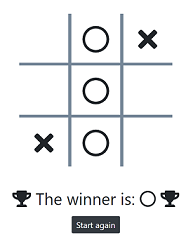
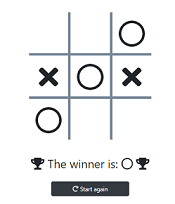
Paddle-game: RWD buttons

Changed region(s): [[0.0857, 0.0588, 0.9143, 0.7059], [0.0571, 0.7647, 0.9429, 1.0], [0.6857, 0.3235, 0.8286, 0.4412]]

diff --git a/src/Components/PaddleGame/PaddleGame.js b/src/Components/PaddleGame/PaddleGame.js
@@ -1,7 +1,7 @@
 import React from 'react';
 import './PaddleGame.css';
 import { FontAwesomeIcon } from '@fortawesome/react-fontawesome';
-import { faTrophy } from '@fortawesome/free-solid-svg-icons';
+  import { faTrophy, faPlay, faExpandArrowsAlt, faRedoAlt } from '@fortawesome/free-solid-svg-icons';
 import lang from '../../assets/lang/lang.json';
 
 class PaddleGame extends React.Component {
@@ -175,9 +175,27 @@ class PaddleGame extends React.Component {
     let startStopGameBtn;
 
     if (!this.state.gameRefreshInterval) {
-      startStopGameBtn = <button className="btn btn-dark" onClick={this.startStopGame.bind(this)}>START GAME</button>
+      startStopGameBtn = <div className="start-stop">
+        <div className="start-stop--narrow">
+          <button className="btn btn-dark" onClick={this.startStopGame.bind(this)}> 
+          <FontAwesomeIcon icon={faPlay} /></button>
+        </div>
+        <div className="start-stop--wide">
+          <button className="btn btn-dark" onClick={this.startStopGame.bind(this)}> 
+          <FontAwesomeIcon icon={faPlay} /> {lang[localStorage.getItem('lang')].startGame} </button>
+          </div>
+        </div>
     } else {
-      startStopGameBtn = <button className="btn btn-dark" onClick={this.startStopGame.bind(this)}>STOP GAME</button>
+      startStopGameBtn = <div className="start-stop">
+        <div className="start-stop--narrow">
+          <button className="btn btn-dark" onClick={this.startStopGame.bind(this)}> 
+          <FontAwesomeIcon icon={faPlay} /></button>
+        </div>
+        <div className="start-stop--wide">
+          <button className="btn btn-dark" onClick={this.startStopGame.bind(this)}> 
+          <FontAwesomeIcon icon={faPlay} /> {lang[localStorage.getItem('lang')].stopGame} </button>
+          </div>
+        </div>
     }
 
     return (
@@ -188,15 +206,27 @@ class PaddleGame extends React.Component {
           className={this.state.isFullScreen ? 'paddle-board paddle-board--full-screen' : 'paddle-board'} 
           ref="canvas" 
           width="700" 
-          height="500">
+          height="500"          >
         </canvas>
+        <div classname="paddle-board--buttons">
+          <div className="paddle-board--buttons--wide">
+            <button className="btn btn-dark" onClick={this.toggleFullScreen.bind(this)}> 
+              <FontAwesomeIcon icon={faExpandArrowsAlt } /> 
+              {lang[localStorage.getItem('lang')].fullScrn} </button>
+            {startStopGameBtn}
+            <button className="btn btn-dark" onClick={this.resetBestScore.bind(this)}>  
+              <FontAwesomeIcon icon={faRedoAlt } /> 
+              {lang[localStorage.getItem('lang')].resetScore} </button>
+          </div>
 
-      <div className="paddle-board--buttons">
-        <button className="btn btn-dark" onClick={this.toggleFullScreen.bind(this)}>Full Screen</button>
-        {startStopGameBtn}
-        <button className="btn btn-dark" onClick={this.resetBestScore.bind(this)}>Reset best score</button>
-      </div>
-
+          <div className="paddle-board--buttons--narrow">
+            <button className="btn btn-dark" onClick={this.toggleFullScreen.bind(this)}> 
+              <FontAwesomeIcon icon={faExpandArrowsAlt } /> </button>
+            {startStopGameBtn}
+            <button className="btn btn-dark" onClick={this.resetBestScore.bind(this)}>  
+              <FontAwesomeIcon icon={faRedoAlt } /> </button>
+          </div>
+        </div>
       </div>
     );
   } 

diff --git a/src/Components/TicTacToe/TicTacToe.js b/src/Components/TicTacToe/TicTacToe.js
@@ -3,7 +3,7 @@ import './TicTacToe.css';
 import lang from '../../assets/lang/lang.json';
 import { FontAwesomeIcon } from '@fortawesome/react-fontawesome';
 import { faCircle } from '@fortawesome/free-regular-svg-icons';
-import { faTimes , faTrophy} from '@fortawesome/free-solid-svg-icons';
+import { faTimes , faTrophy, faRedoAlt} from '@fortawesome/free-solid-svg-icons';
 
 class TicTacToe extends React.Component {
 	constructor() {
@@ -147,8 +147,18 @@ class TicTacToe extends React.Component {
                 );
                 }) }
             </div>
-            <p> <FontAwesomeIcon icon={faTrophy} /> {this.state.winner} <FontAwesomeIcon icon={faTrophy} /></p>
-            <button onClick={this.resetGameBoard.bind(this)} className="btn btn-dark">{lang[localStorage.getItem('lang')].startAgain}</button>
+            <div className="ttt-container--narrow">
+                <p> <FontAwesomeIcon icon={faTrophy} /> {this.state.winner} <FontAwesomeIcon icon={faTrophy} /></p>
+                <button onClick={this.resetGameBoard.bind(this)} className="btn btn-dark">
+                    <FontAwesomeIcon icon={faRedoAlt} /> </button>
+            </div>
+            
+            <div className="ttt-container--wide">
+                <p> <FontAwesomeIcon icon={faTrophy} /> {this.state.winner} <FontAwesomeIcon icon={faTrophy} /></p>
+                <button onClick={this.resetGameBoard.bind(this)} className="btn btn-dark">
+                    <FontAwesomeIcon icon={faRedoAlt} />
+                    {lang[localStorage.getItem('lang')].startAgain}</button>
+            </div>
         </div>
     )}
 }

diff --git a/src/Components/PaddleGame/PaddleGame.css b/src/Components/PaddleGame/PaddleGame.css
@@ -1,8 +1,27 @@
+.paddle-board--buttons--narrow {
+    display: flex;
+    align-items: center;
+    font-size: 2vw;
+} 
+
+.paddle-board--buttons--wide {
+    display: none;
+}
+
+.start-stop--narrow {
+    display: block;
+} 
+
+.start-stop--wide {
+    display: none;
+}
+
 .paddle-board {
     display: flex;
     flex-direction: column;
     text-align: center;
     align-items: center;
+    align-content: center;
     color:#4B515D;
     margin-bottom: 1%;
 }
@@ -10,11 +29,10 @@
 .paddle-board--buttons {
     display: flex;
     align-content: space-between;
-    font-size: 2vw;
 }
 
-.paddle-board--buttons button {
-    width: 20vw;
+button {
+    width: 10vw;
     margin: 2%;
 }
 
@@ -39,4 +57,29 @@ canvas {
     left: 0;
     width: 100vw;
     height: 100vh;
-  }
+}
+
+@media (min-width: 768px) {
+    .paddle-board--buttons--narrow {
+        display: none;
+    } 
+
+    .paddle-board--buttons--wide {
+        display: flex;
+        align-items: center;
+        font-size: 1.5vw;
+    }
+
+    .start-stop--narrow {
+        display: none;
+    } 
+
+    .start-stop--wide {
+        display: block;
+    }
+
+    button {
+        width: 20vw;
+        font-size: 1.5vw;
+    }
+}

diff --git a/src/Components/TicTacToe/TicTacToe.css b/src/Components/TicTacToe/TicTacToe.css
@@ -9,6 +9,17 @@
     font-size: 3vw;
 }
 
+.ttt-container--narrow {
+    display: flex;
+    flex-direction: column;
+    align-content: center;
+    align-items: center;
+}
+
+.ttt-container--wide {
+    display: none;
+}
+
 .game-board {
     width: 40%;
     padding: 0%;
@@ -58,6 +69,18 @@
     font-size: 1.5vw;
 }
 
+@media (min-width: 768px) {
+    .ttt-container--narrow {
+        display: none;
+    }
+    
+    .ttt-container--wide {
+        display: flex;
+        flex-direction: column;
+        align-content: center;
+        align-items: center;
+    }
+}
 
 @media (min-width: 1440px) {
     .game-board {

diff --git a/src/App.css b/src/App.css
@@ -10,7 +10,7 @@
 .container--narrow-container {
   display: block;
  }
-
+ 
 .nav {
   justify-content: center;
   font-size: 3vw;
@@ -33,18 +33,18 @@
   .container--wide-container {
     display: block;
    }
-   
-   .container--narrow-container {
-     display: none;
-    }
+  
+  .container--narrow-container {
+    display: none;
+  }
 
-    .nav {
-      font-size: 1.5vw;
-    }
+  .nav {
+    font-size: 1.5vw;
+  }
 
-    .nav-item {
-      width: 25%;
-    }
+  .nav-item {
+    width: 25%;
+  }
 } 
 
 @media (min-width: 1440px) {
